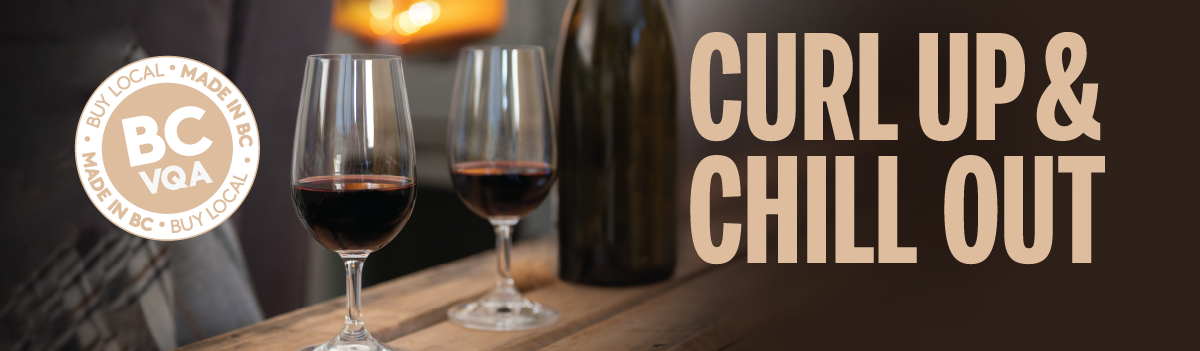
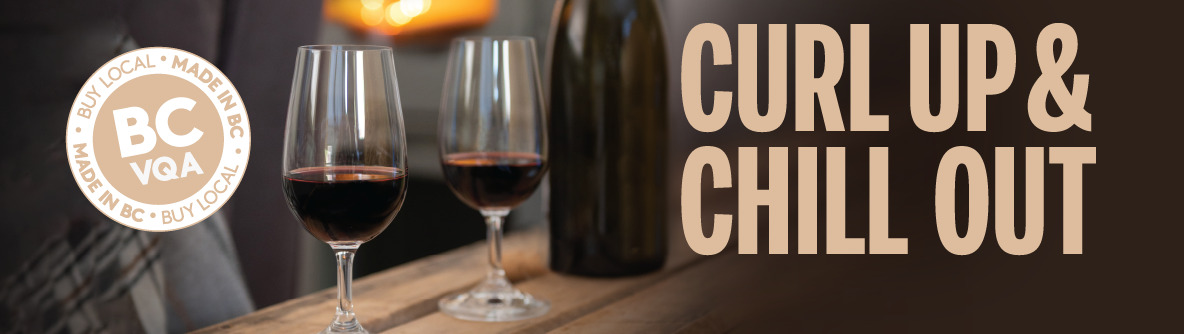
started  footer-component

diff --git a/src/assets/scss/blocks/_footer.scss b/src/assets/scss/blocks/_footer.scss
@@ -1,0 +1,164 @@
+.footer{
+  span{
+     font-weight: bold;
+     font-size: 14px;
+     line-height: 17px;
+  }
+ background-color:#F0F0F4;
+ &__wrapper{
+   padding-top: 43px;
+   display: flex;
+   justify-content: space-between;
+   @media screen and (max-width: 996px) {
+     flex-wrap: wrap;
+     justify-content: space-around;
+   }
+   @media screen and (max-width: 667px) {
+     flex-direction: column;
+     align-items: center;
+   }
+   & > div {
+     @media screen and (max-width: 996px) {
+       margin-bottom: 25px;
+     }
+   }
+ }
+
+ &__subscribe{
+   width: 270px;
+   &-form{
+     padding-top: 34px;
+     display: flex;
+     justify-content: space-between;
+   }
+   &-text{
+       @media screen and (max-width: 996px) {
+         text-align: center;
+       }
+   }
+   &-input{
+     background: #FFFFFF;
+     border: none;
+     outline: none;
+     padding: 8px 0 8px 12px;
+     &::placeholder{
+       font-weight: normal;
+       font-size: 14px;
+       line-height: 17px;
+       color: #C4C4C4;
+     }
+   }
+   &-btn{
+     background: #1C62CD;
+     font-weight: 600;
+     font-size: 11px;
+     line-height: 13px;
+     text-align: center;
+     letter-spacing: 0.12em;
+     text-transform: uppercase;
+     color: #FFFFFF;
+     padding: 12px 16px;
+     border: none;
+     @media screen and (max-width: 996px) {
+       font-size: 10px;
+       padding: 10px 12px;
+     }
+   }
+ }
+
+ &__policy{
+   padding: 46px 0 22px;
+   display: flex;
+   justify-content: center;
+   &-link{
+     font-weight: normal;
+     font-size: 10px;
+     line-height: 12px;
+     color: #48494D;
+     margin: 0 40px;
+     @media screen and (max-width: 667px) {
+       margin: 0 15px;
+       margin-bottom: 12px;
+     }
+   }
+   @media screen and (max-width: 667px) {
+     flex-direction: column;
+   }
+ }
+
+ &__info{
+   display: flex;
+   flex-direction: column;
+   font-weight: normal;
+   font-size: 14px;
+   @media screen and (max-width: 667px) {
+     width: 100%;
+   }
+   &-title{
+     font-weight: bold;
+     font-size: 14px;
+     line-height: 17px;
+     @media screen and (max-width: 667px) {
+       padding: 16px 60px 16px 16px;
+       border-top: 2px solid #d0d0d4;
+       border-bottom: 2px solid #d0d0d4;
+     }
+   }
+   &-wrapper{
+     display: flex;
+     flex-direction: column;
+     @media screen and (max-width: 667px) {
+       padding: 16px 0 0 16px;
+     }
+   }
+
+ }
+ &__shop{
+   display: flex;
+   flex-direction: column;
+   font-weight: normal;
+   font-size: 14px;
+   @media screen and (max-width: 667px) {
+     width: 100%;
+   }
+   &-wrapper{
+     display: flex;
+     flex-direction: column;
+     @media screen and (max-width: 667px) {
+       padding: 16px 0 0 16px;
+     }
+   }
+   &-title{
+     font-weight: bold;
+     font-size: 14px;
+     line-height: 17px;
+     @media screen and (max-width: 667px) {
+       padding: 16px 60px 16px 16px;
+       border-top: 2px solid #d0d0d4;
+       border-bottom: 2px solid #d0d0d4;
+     }
+   }
+   &-wrapper{
+     display: flex;
+     flex-direction: column;
+   }
+   @media screen and (max-width: 667px) {
+
+   }
+ }
+ &__social{
+   width: 250px;
+   display: flex;
+   align-items: center;
+   @media screen and (max-width: 667px) {
+     width: 100%;
+     justify-content: center;
+   }
+   &-icon{
+     & + .footer__social-icon{
+       margin-left: 30px;
+     }
+   }
+ }
+
+}

diff --git a/src/components/Footer.vue b/src/components/Footer.vue
@@ -1,0 +1,66 @@
+<template>
+<footer class="footer">
+  <div class="container">
+    <div class="footer__wrapper">
+      <div class="footer__subscribe">
+        <p class="footer__subscribe-text">
+          <span>
+            Be the first to know about:
+            sales, promotions,new products, events and more!
+          </span>
+        </p>
+        <form class="footer__subscribe-form" action="#">
+          <input class="footer__subscribe-input" type="text" placeholder="Email*">
+          <button class="footer__subscribe-btn" type="submit">subscribe</button>
+        </form>
+      </div>
+      <div class="footer__info">
+        <div class="footer__info-title"><span>General</span></div>
+        <div class="footer__info-wrapper">
+          <a class="footer__info-link" href="#">About Us</a>
+          <a class="footer__info-link" href="#">Terms & Conditions</a>
+          <a class="footer__info-link" href="#">News</a>
+          <a class="footer__info-link" href="#">Careers</a>
+        </div>
+      </div>
+      <div class="footer__shop">
+        <div class="footer__shop-title"><span>Contact Us</span></div>
+        <div class="footer__shop-wrapper">
+          <a class="footer__shop-link" href="#">Delivery Information</a>
+          <a class="footer__shop-link" href="#">Order Tracking</a>
+          <a class="footer__shop-link" href="#">Returns Policy</a>
+          <a class="footer__shop-link" href="#">Store Locator</a>
+        </div>
+      </div>
+      <div class="footer__social">
+        <a class="footer__social-icon" href="#">
+          <img class="footer__social-icon" src="@/assets/img/icons/instagram.svg" alt="instagram">
+        </a>
+        <a class="footer__social-icon" href="#">
+          <img class="footer__social-icon" src="@/assets/img/icons/vk.svg" alt="vk">
+        </a>
+        <a class="footer__social-icon" href="#">
+          <img class="footer__social-icon" src="@/assets/img/icons/facebook.svg" alt="facebook">
+        </a>
+        <a class="footer__social-icon" href="#">
+          <img class="footer__social-icon" src="@/assets/img/icons/youtube.svg" alt="youtube">
+        </a>
+      </div>
+    </div>
+    <div class="footer__policy">
+      <a class="footer__policy-link" href="#">Privacy Policies</a>
+      <a class="footer__policy-link" href="#">© 2022 BLACK SHIP. ALL RIGHTS RESERVED</a>
+    </div>
+  </div>
+</footer>
+</template>
+
+<script>
+export default {
+
+}
+</script>
+
+<style>
+
+</style>

diff --git a/src/App.vue b/src/App.vue
@@ -1,6 +1,7 @@
 <template>
   <Navbar />
   <component :is="layout + '-layout'" v-if="layout" />
+  <Footer />
 </template>
 
 <script>
@@ -8,6 +9,7 @@ import { computed } from 'vue'
 import { useRoute } from 'vue-router'
 import MainLayout from './layout/MainLayout.vue'
 import Navbar from './components/Navbar.vue'
+import Footer from './components/Footer.vue'
 export default {
   setup () {
     const route = useRoute()
@@ -16,7 +18,7 @@ export default {
       layout: computed(() => route.meta.layout)
     }
   },
-  components: { MainLayout, Navbar }
+  components: { MainLayout, Navbar, Footer }
 }
 </script>
 

diff --git a/src/components/ui/Banner.vue b/src/components/ui/Banner.vue
@@ -3,7 +3,7 @@
   <div class="container">
     <!-- <a class="banner__link" href="#"> -->
       <router-link class="banner__link" to="">
-        <img class="banner__img" src="@/assets/img/banner2.jpg" alt="banner">
+        <img class="banner__img" src="@/assets/img/banner.jpg" alt="banner">
       </router-link>
     <!-- </a> -->
   </div>

diff --git a/src/assets/scss/style.scss b/src/assets/scss/style.scss
@@ -5,6 +5,7 @@
 @import "blocks/_categories";
 @import "blocks/_products";
 @import "blocks/_banner";
+@import "blocks/_footer";
 
 ul,
 li {
